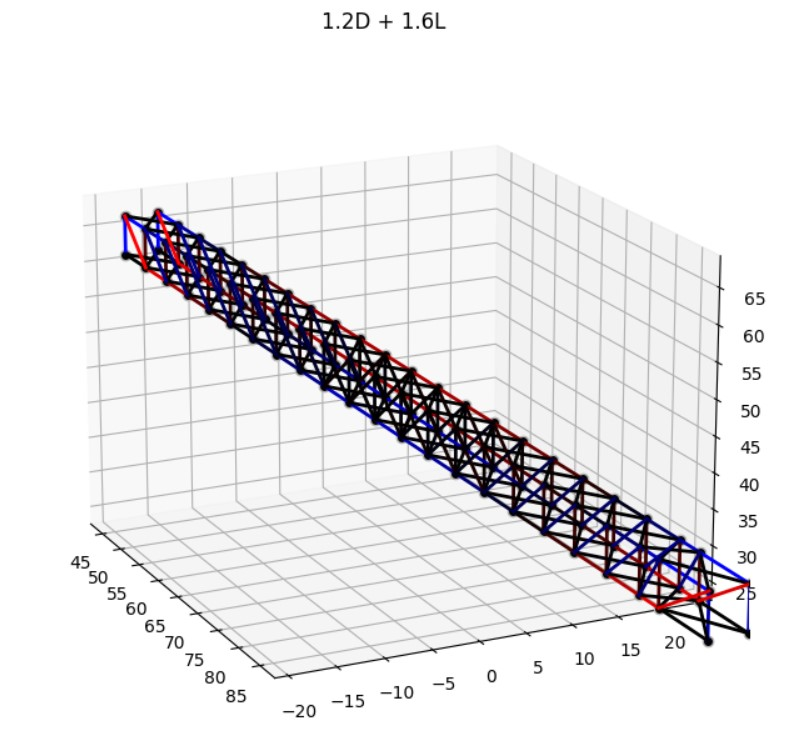
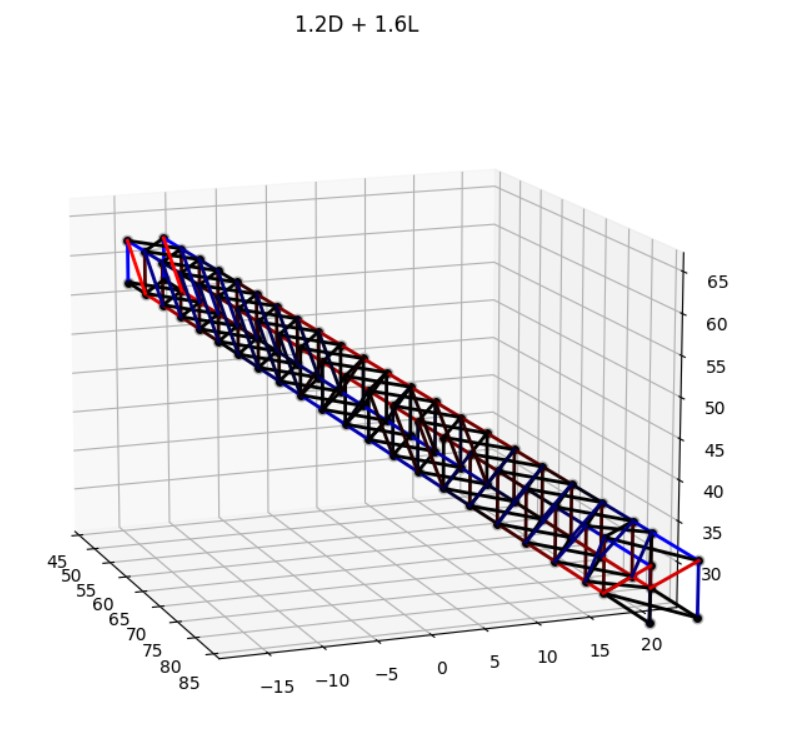
Mejora Puente

Changed region(s): [[0.061, 0.2185, 0.9454, 0.9674], [0.3659, 0.0, 0.5489, 0.0624], [0.5489, 0.905, 0.5794, 0.9362]]

diff --git a/05_ejemplo_chequear_diseño.py b/05_ejemplo_chequear_diseño.py
@@ -150,6 +150,8 @@ ret.agregar_nodo(x[7]*m_	 + 21*L   	,B, z[7] + H) # 91
 seccion_grande = SeccionICHA("O310x300x5", color="#3A8431")#, debug=True) #O310x300x5
 seccion_chica = SeccionICHA("[]300x100x18.3", color="#A3500B")   #300x100x18.3
 seccion_extra = SeccionICHA("H400x150x47.6", color="pink")     #H400x150x47.6
+seccion_chica_2 = SeccionICHA("[]12x12x0.3", color="blue")
+seccion_chica_3 = SeccionICHA("[]100x50x8.5", color="black")
 
 #Crear y agregar las barras
 
@@ -297,99 +299,99 @@ ret.agregar_barra(Barra(89, 90, seccion_grande)) #132
 ret.agregar_barra(Barra(90, 91, seccion_grande)) #133
 
 #BARRAS DE INFERIORES
-ret.agregar_barra(Barra(0, 47, seccion_grande)) #134
-ret.agregar_barra(Barra(1, 46, seccion_grande)) #135
-ret.agregar_barra(Barra(1, 48, seccion_grande)) #136
-ret.agregar_barra(Barra(2, 47, seccion_grande)) #137
-ret.agregar_barra(Barra(3, 48, seccion_grande)) #138
-ret.agregar_barra(Barra(2, 49, seccion_grande)) #139
-ret.agregar_barra(Barra(3, 50, seccion_grande)) #140
-ret.agregar_barra(Barra(4, 49, seccion_grande)) #141
-ret.agregar_barra(Barra(5, 50, seccion_grande)) #142
-ret.agregar_barra(Barra(4, 51, seccion_grande)) #143
-ret.agregar_barra(Barra(6, 51, seccion_grande)) #144
-ret.agregar_barra(Barra(5, 52, seccion_grande)) #145
-ret.agregar_barra(Barra(7, 52, seccion_grande)) #146
-ret.agregar_barra(Barra(6, 53, seccion_grande)) #147
-ret.agregar_barra(Barra(8, 53, seccion_grande)) #148
-ret.agregar_barra(Barra(7, 54, seccion_grande)) #149
-ret.agregar_barra(Barra(9, 54, seccion_grande)) #150
-ret.agregar_barra(Barra(8, 55, seccion_grande)) #151
-ret.agregar_barra(Barra(10, 55, seccion_grande)) #152
-ret.agregar_barra(Barra(9, 56, seccion_grande)) #153
-ret.agregar_barra(Barra(11, 56, seccion_grande)) #154
-ret.agregar_barra(Barra(10, 57, seccion_grande)) #155
-ret.agregar_barra(Barra(12, 57, seccion_grande)) #156
+ret.agregar_barra(Barra(0, 47, seccion_chica_2)) #134
+ret.agregar_barra(Barra(1, 46, seccion_chica_2)) #135
+ret.agregar_barra(Barra(1, 48, seccion_chica_2)) #136
+ret.agregar_barra(Barra(2, 47, seccion_chica_2)) #137
+ret.agregar_barra(Barra(3, 48, seccion_chica_2)) #138
+ret.agregar_barra(Barra(2, 49, seccion_chica_2)) #139
+ret.agregar_barra(Barra(3, 50, seccion_chica_2)) #140
+ret.agregar_barra(Barra(4, 49, seccion_chica_2)) #141
+ret.agregar_barra(Barra(5, 50, seccion_chica_2)) #142
+ret.agregar_barra(Barra(4, 51, seccion_chica_2)) #143
+ret.agregar_barra(Barra(6, 51, seccion_chica_2)) #144
+ret.agregar_barra(Barra(5, 52, seccion_chica_2)) #145
+ret.agregar_barra(Barra(7, 52, seccion_chica_2)) #146
+ret.agregar_barra(Barra(6, 53, seccion_chica_2)) #147
+ret.agregar_barra(Barra(8, 53, seccion_chica_2)) #148
+ret.agregar_barra(Barra(7, 54, seccion_chica_2)) #149
+ret.agregar_barra(Barra(9, 54, seccion_chica_2)) #150
+ret.agregar_barra(Barra(8, 55, seccion_chica_2)) #151
+ret.agregar_barra(Barra(10, 55, seccion_chica_2)) #152
+ret.agregar_barra(Barra(9, 56, seccion_chica_2)) #153
+ret.agregar_barra(Barra(11, 56, seccion_chica_2)) #154
+ret.agregar_barra(Barra(10, 57, seccion_chica_2)) #155
+ret.agregar_barra(Barra(12, 57, seccion_chica_2)) #156
 
-ret.agregar_barra(Barra(11, 58, seccion_grande)) #157
-ret.agregar_barra(Barra(12, 57, seccion_grande)) #158
-ret.agregar_barra(Barra(13, 58, seccion_grande)) #159
-ret.agregar_barra(Barra(12, 59, seccion_grande)) #160
-ret.agregar_barra(Barra(14, 59, seccion_grande)) #161
-ret.agregar_barra(Barra(13, 60, seccion_grande)) #162
-ret.agregar_barra(Barra(15, 60, seccion_grande)) #163
-ret.agregar_barra(Barra(14, 61, seccion_grande)) #164
-ret.agregar_barra(Barra(16, 61, seccion_grande)) #165
-ret.agregar_barra(Barra(15, 62, seccion_grande)) #166
-ret.agregar_barra(Barra(17, 62, seccion_grande)) #167
-ret.agregar_barra(Barra(16, 63, seccion_grande)) #168
-ret.agregar_barra(Barra(18, 63, seccion_grande)) #169
-ret.agregar_barra(Barra(17, 64, seccion_grande)) #170
-ret.agregar_barra(Barra(19, 64, seccion_grande)) #171
-ret.agregar_barra(Barra(18, 65, seccion_grande)) #172
-ret.agregar_barra(Barra(20, 65, seccion_grande)) #173
-ret.agregar_barra(Barra(19, 66, seccion_grande)) #174
-ret.agregar_barra(Barra(21, 66, seccion_grande)) #175
-ret.agregar_barra(Barra(20, 67, seccion_grande)) #176
-ret.agregar_barra(Barra(22, 67, seccion_grande)) #177
-ret.agregar_barra(Barra(21, 68, seccion_grande)) #178
+ret.agregar_barra(Barra(11, 58, seccion_chica_2)) #157
+ret.agregar_barra(Barra(12, 57, seccion_chica_2)) #158
+ret.agregar_barra(Barra(13, 58, seccion_chica_2)) #159
+ret.agregar_barra(Barra(12, 59, seccion_chica_2)) #160
+ret.agregar_barra(Barra(14, 59, seccion_chica_2)) #161
+ret.agregar_barra(Barra(13, 60, seccion_chica_2)) #162
+ret.agregar_barra(Barra(15, 60, seccion_chica_2)) #163
+ret.agregar_barra(Barra(14, 61, seccion_chica_2)) #164
+ret.agregar_barra(Barra(16, 61, seccion_chica_2)) #165
+ret.agregar_barra(Barra(15, 62, seccion_chica_2)) #166
+ret.agregar_barra(Barra(17, 62, seccion_chica_2)) #167
+ret.agregar_barra(Barra(16, 63, seccion_chica_2)) #168
+ret.agregar_barra(Barra(18, 63, seccion_chica_2)) #169
+ret.agregar_barra(Barra(17, 64, seccion_chica_2)) #170
+ret.agregar_barra(Barra(19, 64, seccion_chica_2)) #171
+ret.agregar_barra(Barra(18, 65, seccion_chica_2)) #172
+ret.agregar_barra(Barra(20, 65, seccion_chica_2)) #173
+ret.agregar_barra(Barra(19, 66, seccion_chica_2)) #174
+ret.agregar_barra(Barra(21, 66, seccion_chica_2)) #175
+ret.agregar_barra(Barra(20, 67, seccion_chica_2)) #176
+ret.agregar_barra(Barra(22, 67, seccion_chica_2)) #177
+ret.agregar_barra(Barra(21, 68, seccion_chica_2)) #178
 
 #BARRAS DE FRENTE SUPERIORES
-ret.agregar_barra(Barra(69, 24, seccion_grande)) #179
-ret.agregar_barra(Barra(70, 23, seccion_grande)) #180
-ret.agregar_barra(Barra(70, 25, seccion_grande)) #181
-ret.agregar_barra(Barra(71, 24, seccion_grande)) #182
-ret.agregar_barra(Barra(71, 26, seccion_grande)) #183
-ret.agregar_barra(Barra(72, 25, seccion_grande)) #184
-ret.agregar_barra(Barra(72, 27, seccion_grande)) #185
-ret.agregar_barra(Barra(73, 26, seccion_grande)) #186
-ret.agregar_barra(Barra(73, 28, seccion_grande)) #187
-ret.agregar_barra(Barra(74, 27, seccion_grande)) #188
-ret.agregar_barra(Barra(74, 29, seccion_grande)) #189
-ret.agregar_barra(Barra(75, 28, seccion_grande)) #190
-ret.agregar_barra(Barra(75, 30, seccion_grande)) #191
-ret.agregar_barra(Barra(76, 29, seccion_grande)) #192
-ret.agregar_barra(Barra(76, 31, seccion_grande)) #193
-ret.agregar_barra(Barra(77, 30, seccion_grande)) #194
-ret.agregar_barra(Barra(77, 32, seccion_grande)) #195
-ret.agregar_barra(Barra(78, 31, seccion_grande)) #196
-ret.agregar_barra(Barra(78, 33, seccion_grande)) #197
-ret.agregar_barra(Barra(79, 32, seccion_grande)) #198
-ret.agregar_barra(Barra(79, 34, seccion_grande)) #199
-ret.agregar_barra(Barra(80, 33, seccion_grande)) #200
-ret.agregar_barra(Barra(80, 35, seccion_grande)) #201
+ret.agregar_barra(Barra(69, 24, seccion_chica_2)) #179
+ret.agregar_barra(Barra(70, 23, seccion_chica_2)) #180
+ret.agregar_barra(Barra(70, 25, seccion_chica_2)) #181
+ret.agregar_barra(Barra(71, 24, seccion_chica_2)) #182
+ret.agregar_barra(Barra(71, 26, seccion_chica_2)) #183
+ret.agregar_barra(Barra(72, 25, seccion_chica_2)) #184
+ret.agregar_barra(Barra(72, 27, seccion_chica_2)) #185
+ret.agregar_barra(Barra(73, 26, seccion_chica_2)) #186
+ret.agregar_barra(Barra(73, 28, seccion_chica_2)) #187
+ret.agregar_barra(Barra(74, 27, seccion_chica_2)) #188
+ret.agregar_barra(Barra(74, 29, seccion_chica_2)) #189
+ret.agregar_barra(Barra(75, 28, seccion_chica_2)) #190
+ret.agregar_barra(Barra(75, 30, seccion_chica_2)) #191
+ret.agregar_barra(Barra(76, 29, seccion_chica_2)) #192
+ret.agregar_barra(Barra(76, 31, seccion_chica_2)) #193
+ret.agregar_barra(Barra(77, 30, seccion_chica_2)) #194
+ret.agregar_barra(Barra(77, 32, seccion_chica_2)) #195
+ret.agregar_barra(Barra(78, 31, seccion_chica_2)) #196
+ret.agregar_barra(Barra(78, 33, seccion_chica_2)) #197
+ret.agregar_barra(Barra(79, 32, seccion_chica_2)) #198
+ret.agregar_barra(Barra(79, 34, seccion_chica_2)) #199
+ret.agregar_barra(Barra(80, 33, seccion_chica_2)) #200
+ret.agregar_barra(Barra(80, 35, seccion_chica_2)) #201
 
-ret.agregar_barra(Barra(81, 34, seccion_grande)) #202
-ret.agregar_barra(Barra(81, 36, seccion_grande)) #203
-ret.agregar_barra(Barra(82, 35, seccion_grande)) #204
-ret.agregar_barra(Barra(82, 37, seccion_grande)) #205
-ret.agregar_barra(Barra(83, 36, seccion_grande)) #206
-ret.agregar_barra(Barra(83, 38, seccion_grande)) #207
-ret.agregar_barra(Barra(84, 37, seccion_grande)) #208
-ret.agregar_barra(Barra(84, 39, seccion_grande)) #209
-ret.agregar_barra(Barra(85, 38, seccion_grande)) #210
-ret.agregar_barra(Barra(85, 40, seccion_grande)) #211
-ret.agregar_barra(Barra(86, 39, seccion_grande)) #212
-ret.agregar_barra(Barra(86, 41, seccion_grande)) #213
-ret.agregar_barra(Barra(87, 40, seccion_grande)) #214
-ret.agregar_barra(Barra(87, 42, seccion_grande)) #215
-ret.agregar_barra(Barra(88, 41, seccion_grande)) #216
-ret.agregar_barra(Barra(88, 43, seccion_grande)) #217
-ret.agregar_barra(Barra(89, 42, seccion_grande)) #218
-ret.agregar_barra(Barra(89, 44, seccion_grande)) #219
-ret.agregar_barra(Barra(90, 43, seccion_grande)) #220
-ret.agregar_barra(Barra(90, 45, seccion_grande)) #221
-ret.agregar_barra(Barra(91, 44, seccion_grande)) #222
+ret.agregar_barra(Barra(81, 34, seccion_chica_2)) #202
+ret.agregar_barra(Barra(81, 36, seccion_chica_2)) #203
+ret.agregar_barra(Barra(82, 35, seccion_chica_2)) #204
+ret.agregar_barra(Barra(82, 37, seccion_chica_2)) #205
+ret.agregar_barra(Barra(83, 36, seccion_chica_2)) #206
+ret.agregar_barra(Barra(83, 38, seccion_chica_2)) #207
+ret.agregar_barra(Barra(84, 37, seccion_chica_2)) #208
+ret.agregar_barra(Barra(84, 39, seccion_chica_2)) #209
+ret.agregar_barra(Barra(85, 38, seccion_chica_2)) #210
+ret.agregar_barra(Barra(85, 40, seccion_chica_2)) #211
+ret.agregar_barra(Barra(86, 39, seccion_chica_2)) #212
+ret.agregar_barra(Barra(86, 41, seccion_chica_2)) #213
+ret.agregar_barra(Barra(87, 40, seccion_chica_2)) #214
+ret.agregar_barra(Barra(87, 42, seccion_chica_2)) #215
+ret.agregar_barra(Barra(88, 41, seccion_chica_2)) #216
+ret.agregar_barra(Barra(88, 43, seccion_chica_2)) #217
+ret.agregar_barra(Barra(89, 42, seccion_chica_2)) #218
+ret.agregar_barra(Barra(89, 44, seccion_chica_2)) #219
+ret.agregar_barra(Barra(90, 43, seccion_chica_2)) #220
+ret.agregar_barra(Barra(90, 45, seccion_chica_2)) #221
+ret.agregar_barra(Barra(91, 44, seccion_chica_2)) #222
 
 #DIAGONALES
 ret.agregar_barra(Barra(23, 1, seccion_extra)) #223
@@ -401,18 +403,18 @@ ret.agregar_barra(Barra(28, 6, seccion_chica)) #228
 ret.agregar_barra(Barra(29, 7, seccion_chica)) #229
 ret.agregar_barra(Barra(30, 8, seccion_chica)) #230
 ret.agregar_barra(Barra(31, 9, seccion_chica)) #231
-ret.agregar_barra(Barra(32, 10, seccion_chica)) #232
-ret.agregar_barra(Barra(33, 11, seccion_chica)) #233
-ret.agregar_barra(Barra(34, 12, seccion_chica)) #234
-ret.agregar_barra(Barra(35, 13, seccion_chica)) #235
-ret.agregar_barra(Barra(36, 14, seccion_chica)) #236
-ret.agregar_barra(Barra(37, 15, seccion_chica)) #237
-ret.agregar_barra(Barra(33, 9, seccion_chica)) #238
-ret.agregar_barra(Barra(34, 10, seccion_chica)) #239
-ret.agregar_barra(Barra(35, 11, seccion_chica)) #240
-ret.agregar_barra(Barra(36, 12, seccion_chica)) #241
-ret.agregar_barra(Barra(37, 13, seccion_chica)) #242
-ret.agregar_barra(Barra(38, 14, seccion_chica)) #243
+# ret.agregar_barra(Barra(32, 10, seccion_chica_3)) #232
+# ret.agregar_barra(Barra(33, 11, seccion_chica_3)) #233
+# ret.agregar_barra(Barra(34, 12, seccion_chica_3)) #234
+ret.agregar_barra(Barra(35, 13, seccion_chica_3)) #235
+ret.agregar_barra(Barra(36, 14, seccion_chica_3)) #236
+ret.agregar_barra(Barra(37, 15, seccion_chica_3)) #237
+ret.agregar_barra(Barra(33, 9, seccion_chica_3)) #238
+ret.agregar_barra(Barra(34, 10, seccion_chica_3)) #239
+ret.agregar_barra(Barra(35, 11, seccion_chica_3)) #240
+# ret.agregar_barra(Barra(36, 12, seccion_chica_3)) #241
+# ret.agregar_barra(Barra(37, 13, seccion_chica_3)) #242
+# ret.agregar_barra(Barra(38, 14, seccion_chica_3)) #243
 ret.agregar_barra(Barra(39, 15, seccion_chica)) #244
 ret.agregar_barra(Barra(40, 16, seccion_chica)) #245
 ret.agregar_barra(Barra(41, 17, seccion_chica)) #246
@@ -429,18 +431,18 @@ ret.agregar_barra(Barra(74, 52, seccion_chica)) #256
 ret.agregar_barra(Barra(75, 53, seccion_chica)) #257
 ret.agregar_barra(Barra(76, 54, seccion_chica)) #258
 ret.agregar_barra(Barra(77, 55, seccion_chica)) #259
-ret.agregar_barra(Barra(78, 56, seccion_chica)) #260
-ret.agregar_barra(Barra(79, 57, seccion_chica)) #261
-ret.agregar_barra(Barra(80, 58, seccion_chica)) #262
-ret.agregar_barra(Barra(81, 59, seccion_chica)) #263
-ret.agregar_barra(Barra(82, 60, seccion_chica)) #264
-ret.agregar_barra(Barra(83, 61, seccion_chica)) #265
-ret.agregar_barra(Barra(79, 55, seccion_chica)) #266
-ret.agregar_barra(Barra(80, 56, seccion_chica)) #267
-ret.agregar_barra(Barra(81, 57, seccion_chica)) #268
-ret.agregar_barra(Barra(82, 58, seccion_chica)) #269
-ret.agregar_barra(Barra(83, 59, seccion_chica)) #270
-ret.agregar_barra(Barra(84, 60, seccion_chica)) #271
+# ret.agregar_barra(Barra(78, 56, seccion_chica_3)) #260
+# ret.agregar_barra(Barra(79, 57, seccion_chica_3)) #261
+# ret.agregar_barra(Barra(80, 58, seccion_chica_3)) #262
+ret.agregar_barra(Barra(81, 59, seccion_chica_3)) #263
+ret.agregar_barra(Barra(82, 60, seccion_chica_3)) #264
+ret.agregar_barra(Barra(83, 61, seccion_chica_3)) #265
+ret.agregar_barra(Barra(79, 55, seccion_chica_3)) #266
+ret.agregar_barra(Barra(80, 56, seccion_chica_3)) #267
+ret.agregar_barra(Barra(81, 57, seccion_chica_3)) #268
+# ret.agregar_barra(Barra(82, 58, seccion_chica_3)) #269
+# ret.agregar_barra(Barra(83, 59, seccion_chica_3)) #270
+# ret.agregar_barra(Barra(84, 60, seccion_chica_3)) #271
 ret.agregar_barra(Barra(85, 61, seccion_chica)) #272
 ret.agregar_barra(Barra(86, 62, seccion_chica)) #273
 ret.agregar_barra(Barra(87, 63, seccion_chica)) #274
@@ -573,7 +575,7 @@ ver_reticulado_3d(ret,
 	titulo="Factor Utilizacion")
 
 
-ret.guardar("05_ejemplo_chequear_diseño.h5")
+ret.guardar("GRUPO_10_FINAL.h5")
 
 print(f"DESPLAZAMIENTOS: {ret.u}")
 print(f"\nFACTOR DE UTILIZACIÓN: {factores_de_utilizacion}")

diff --git a/chequear-diseño.py b/chequear-diseño.py
@@ -13,7 +13,7 @@ ret = Reticulado()
 
 # nombre_archivo = "g06_4063_1540840_Grupo_06.h5"
 #nombre_archivo = "g07_2725_1540552_05_ejemplo_chequear_diseño.h5"
-nombre_archivo = "05_ejemplo_chequear_diseño.h5"
+nombre_archivo = "GRUPO_10_FINAL.h5"
 
 if len(sys.argv) > 1:
 	nombre_archivo = sys.argv[1]
